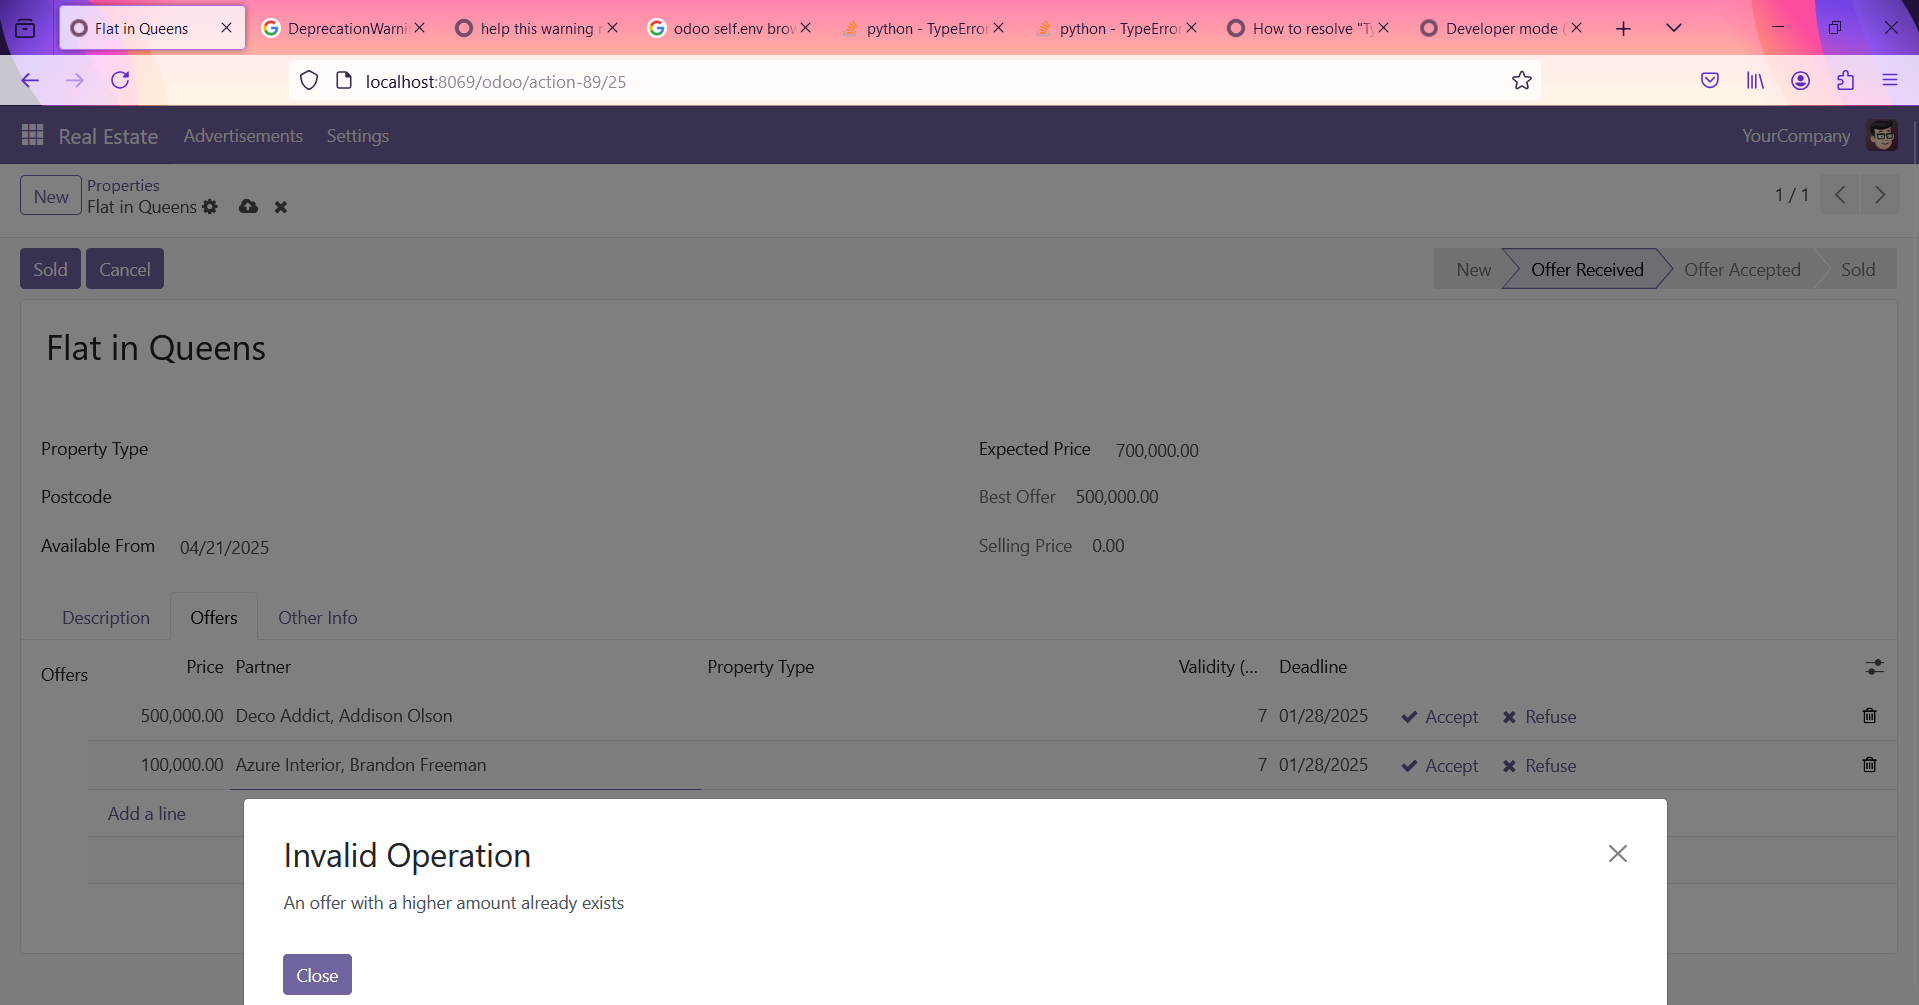
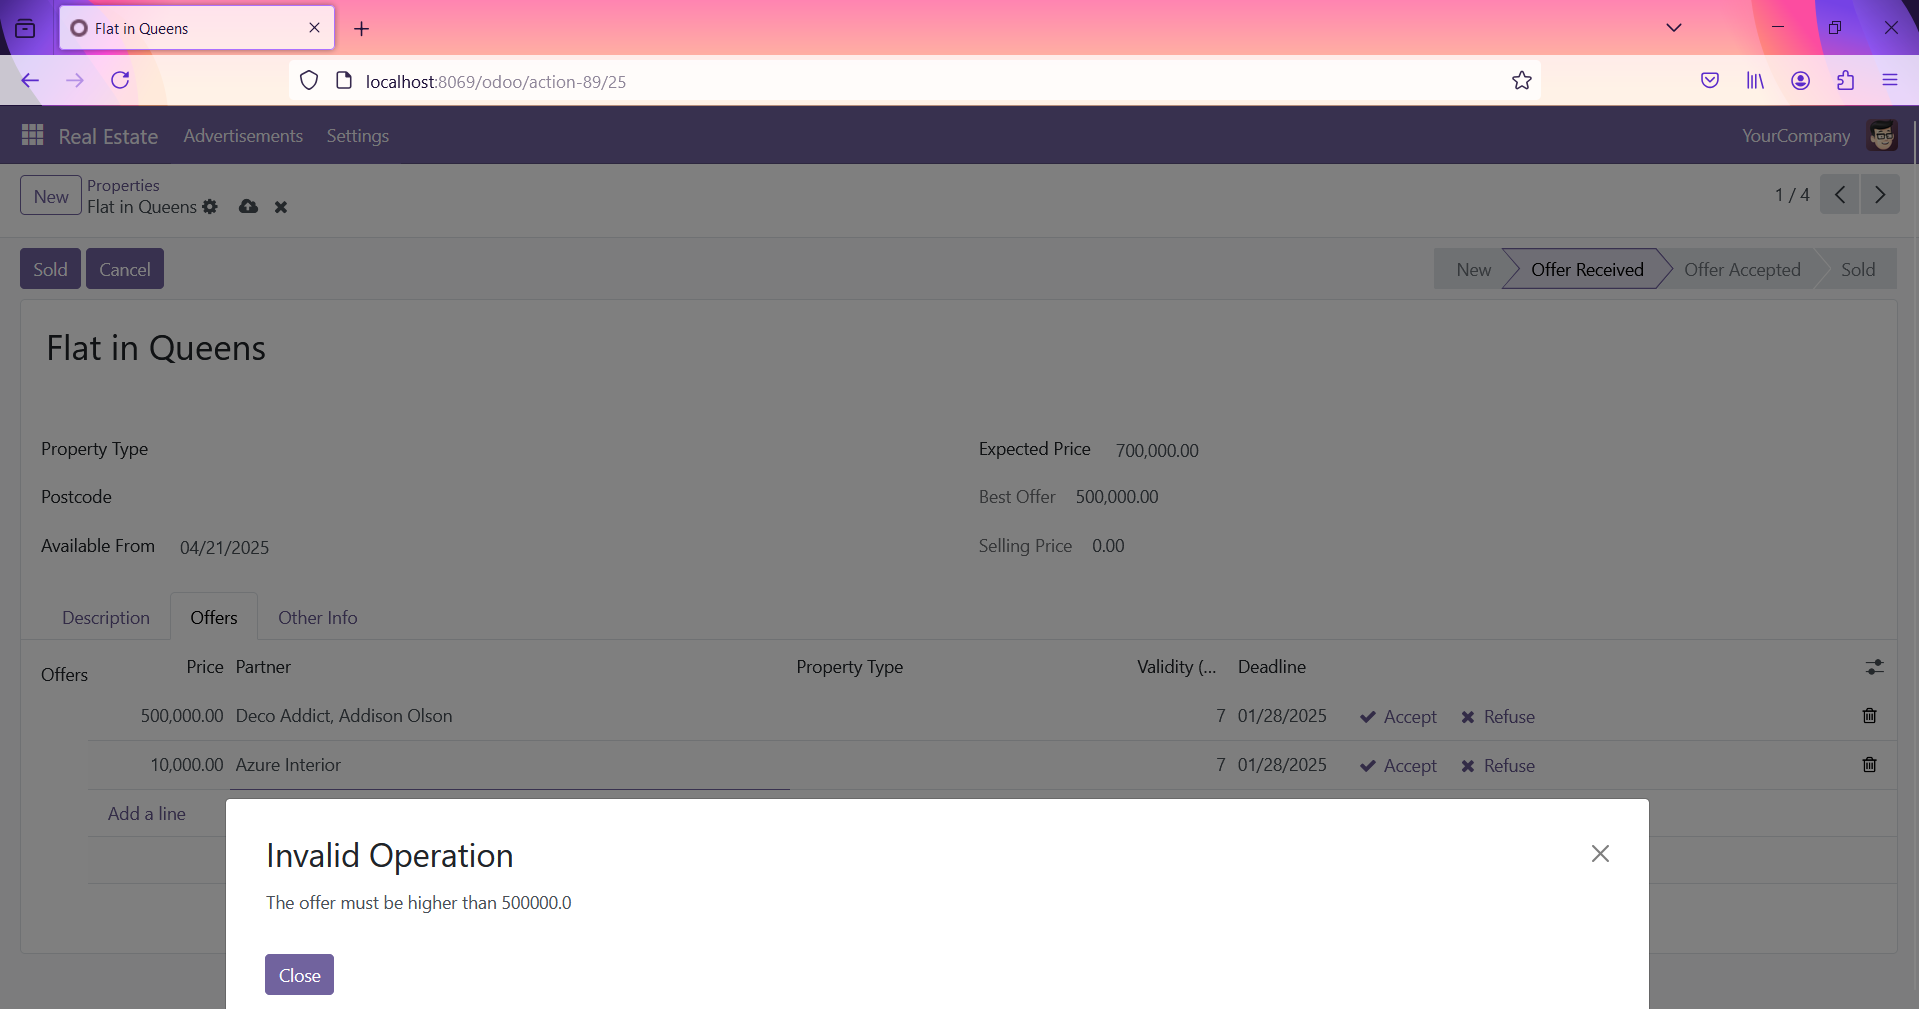
Display user's available properties, update low offer price error message

diff --git a/estate/models/estate_property_offer.py b/estate/models/estate_property_offer.py
@@ -18,8 +18,9 @@ class EstatePropertyOffer(models.Model):
 
     @api.model_create_multi
     def create(self, vals):
-        if vals[0]['price'] < self.env['estate.property'].browse(vals[0]['property_id']).best_price:
-            raise UserError("An offer with a higher price already exists")
+        best_price = self.env['estate.property'].browse(vals[0]['property_id']).best_price
+        if vals[0]['price'] < best_price:
+            raise UserError(f"The offer must be higher than {best_price}")
 
         self.env['estate.property'].browse(vals[0]['property_id']).state = 'offer_received'
         return super().create(vals)

diff --git a/estate/models/inherited_model.py b/estate/models/inherited_model.py
@@ -1,0 +1,8 @@
+from odoo import fields, models
+
+
+class Users(models.Model):
+    _inherit = ["res.users"]
+
+    property_ids = fields.One2many('estate.property', 'salesperson_id', string="Real Estate Properties",
+                                   domain=['|', ('state', '=', 'new'), ('state', '=', 'offer_received')])

diff --git a/estate/models/__init__.py b/estate/models/__init__.py
@@ -2,3 +2,4 @@ from . import estate_property
 from . import estate_property_type
 from . import estate_property_tag
 from . import estate_property_offer
+from . import inherited_model
